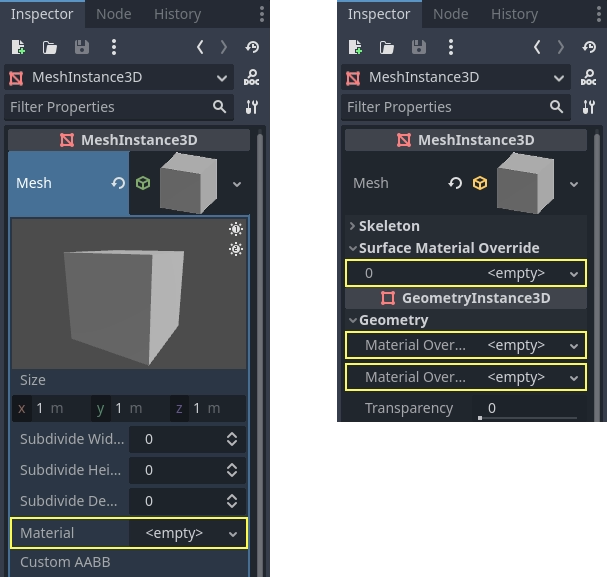
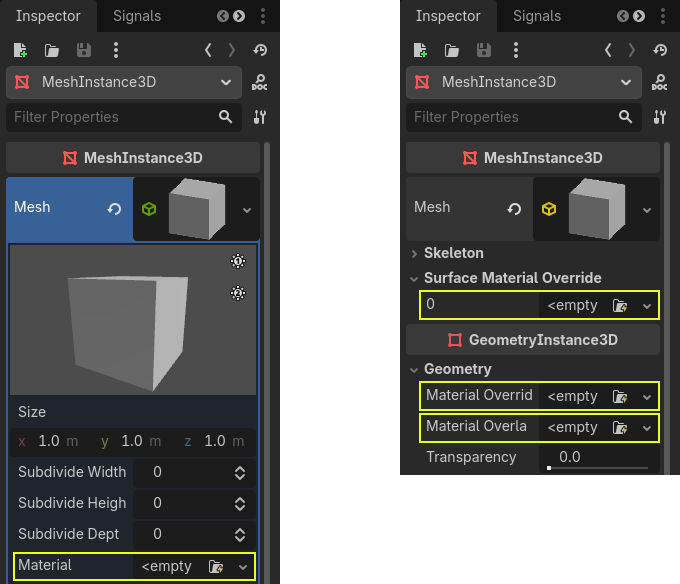
Merge pull request #12087 from skyace65/Spatial-material-image-update
Update spatial material page images for 4.7

Pull request: Update spatial material page images for 4.7
Does what the title says. All images have gone through squoosh compression.

I've removed the image for vertex color as it only showed two checkboxes in the UI, and I don't see the utility in keeping it.

diff --git a/tutorials/3d/standard_material_3d.rst b/tutorials/3d/standard_material_3d.rst
@@ -346,8 +346,6 @@ Vertex Color
 This setting allows choosing what is done by default to vertex colors that come
 from your 3D modeling application. By default, they are ignored.
 
-.. image:: img/spatial_material4.webp
-
 Use as Albedo
 ~~~~~~~~~~~~~
 